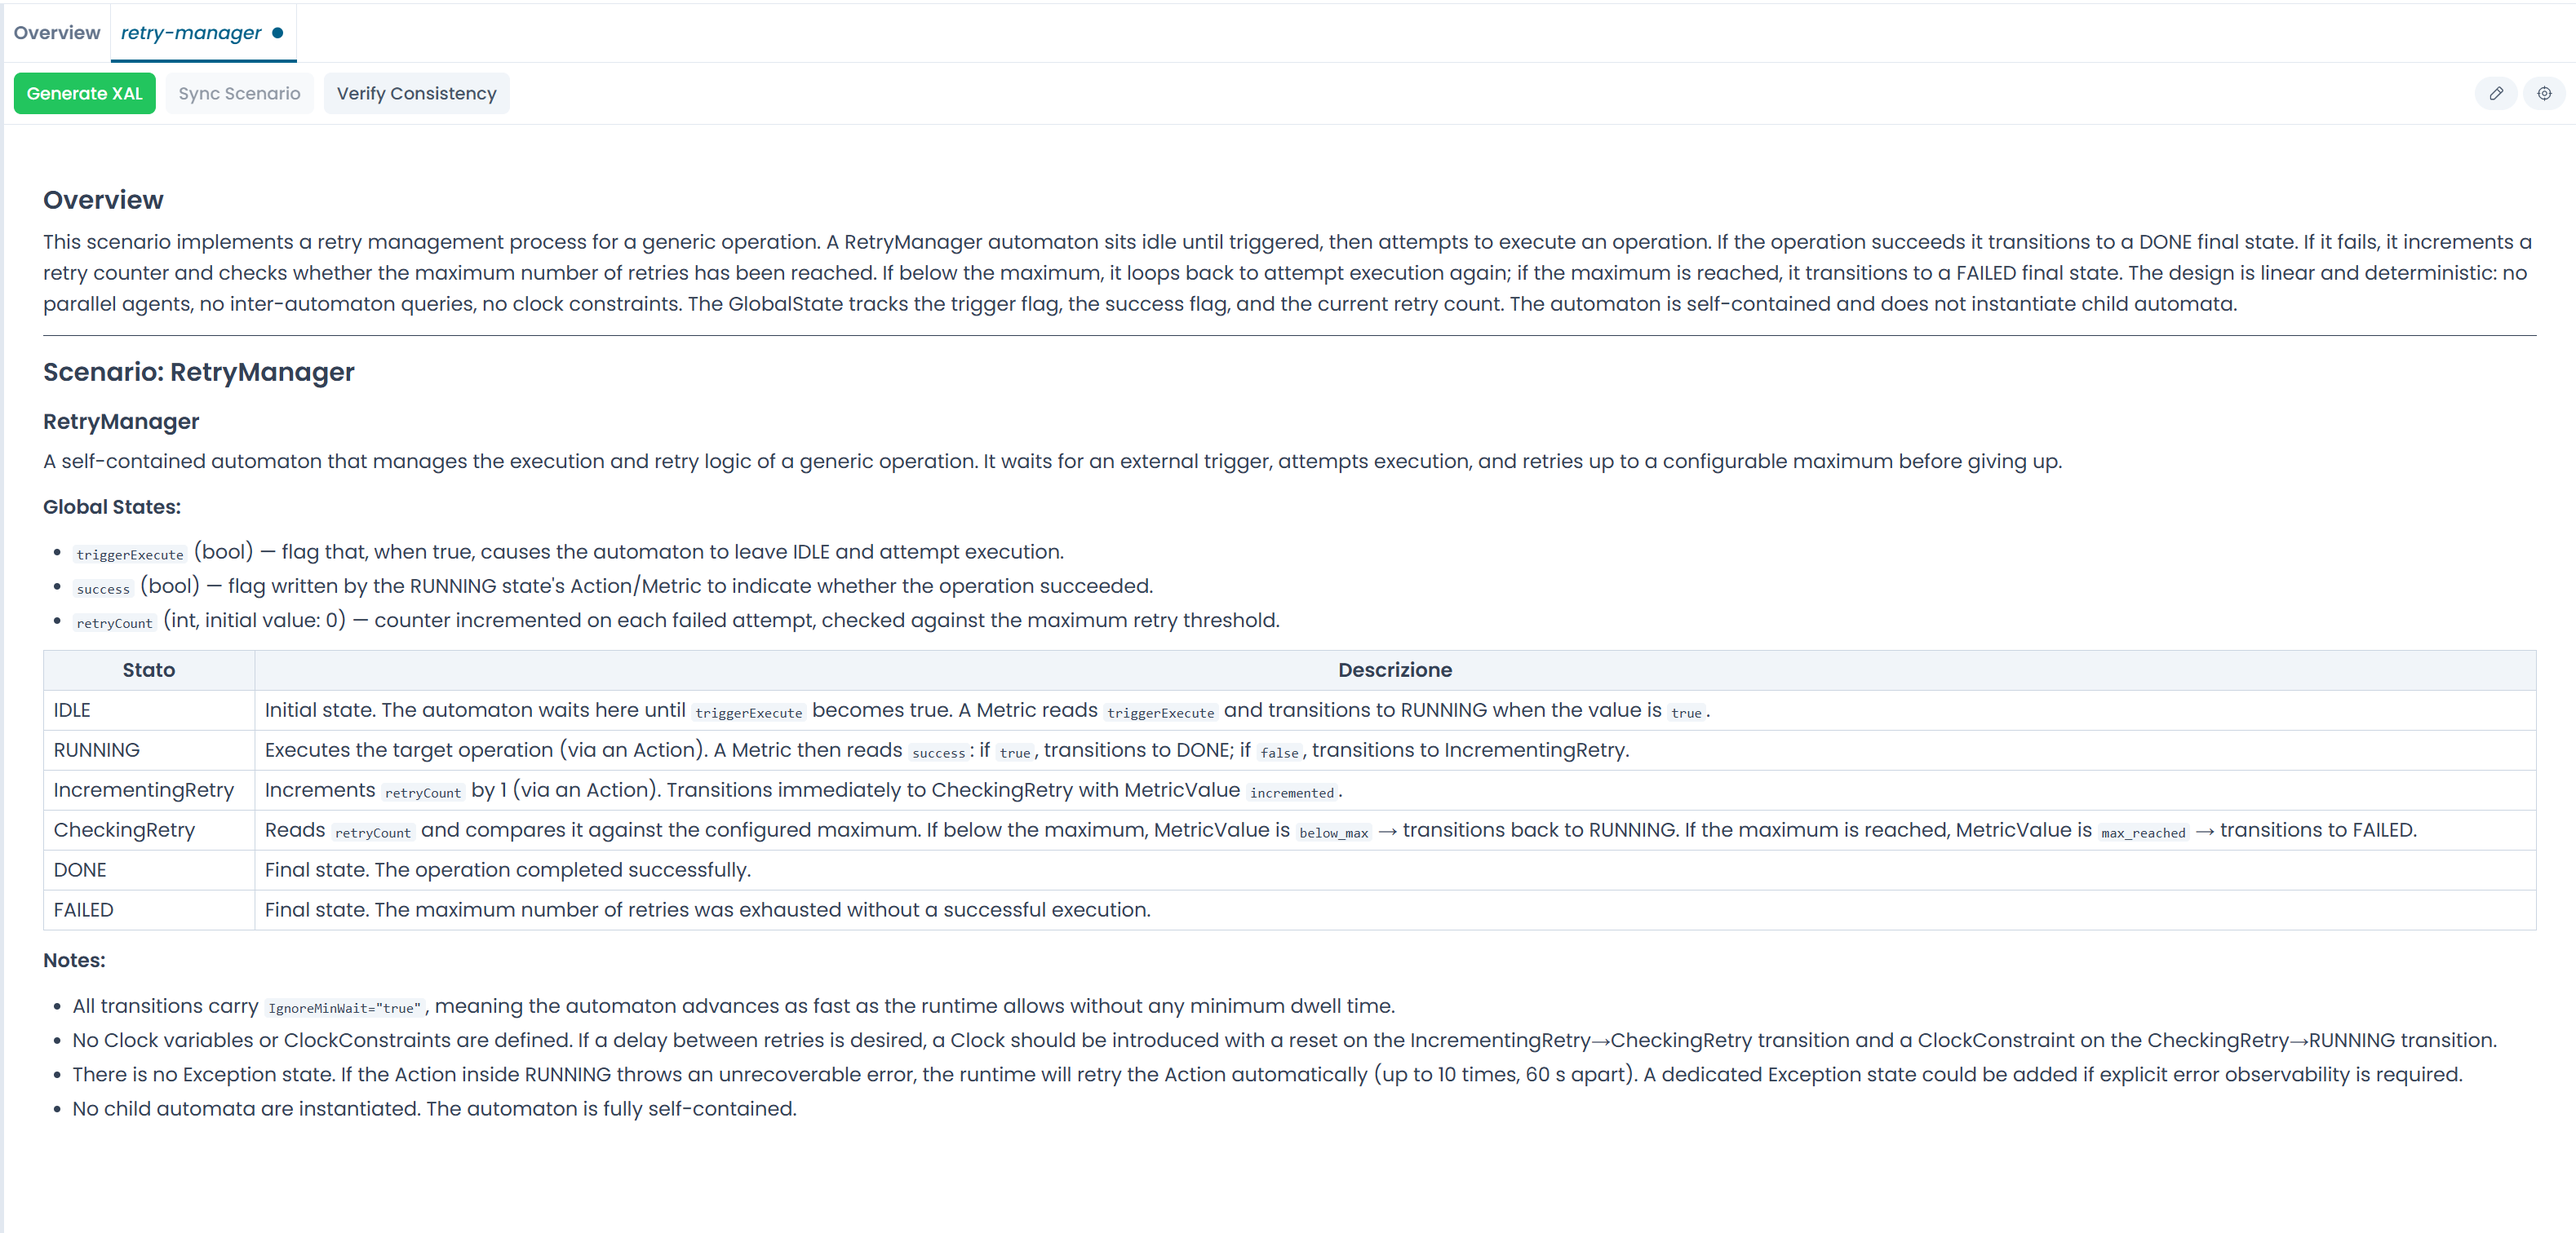
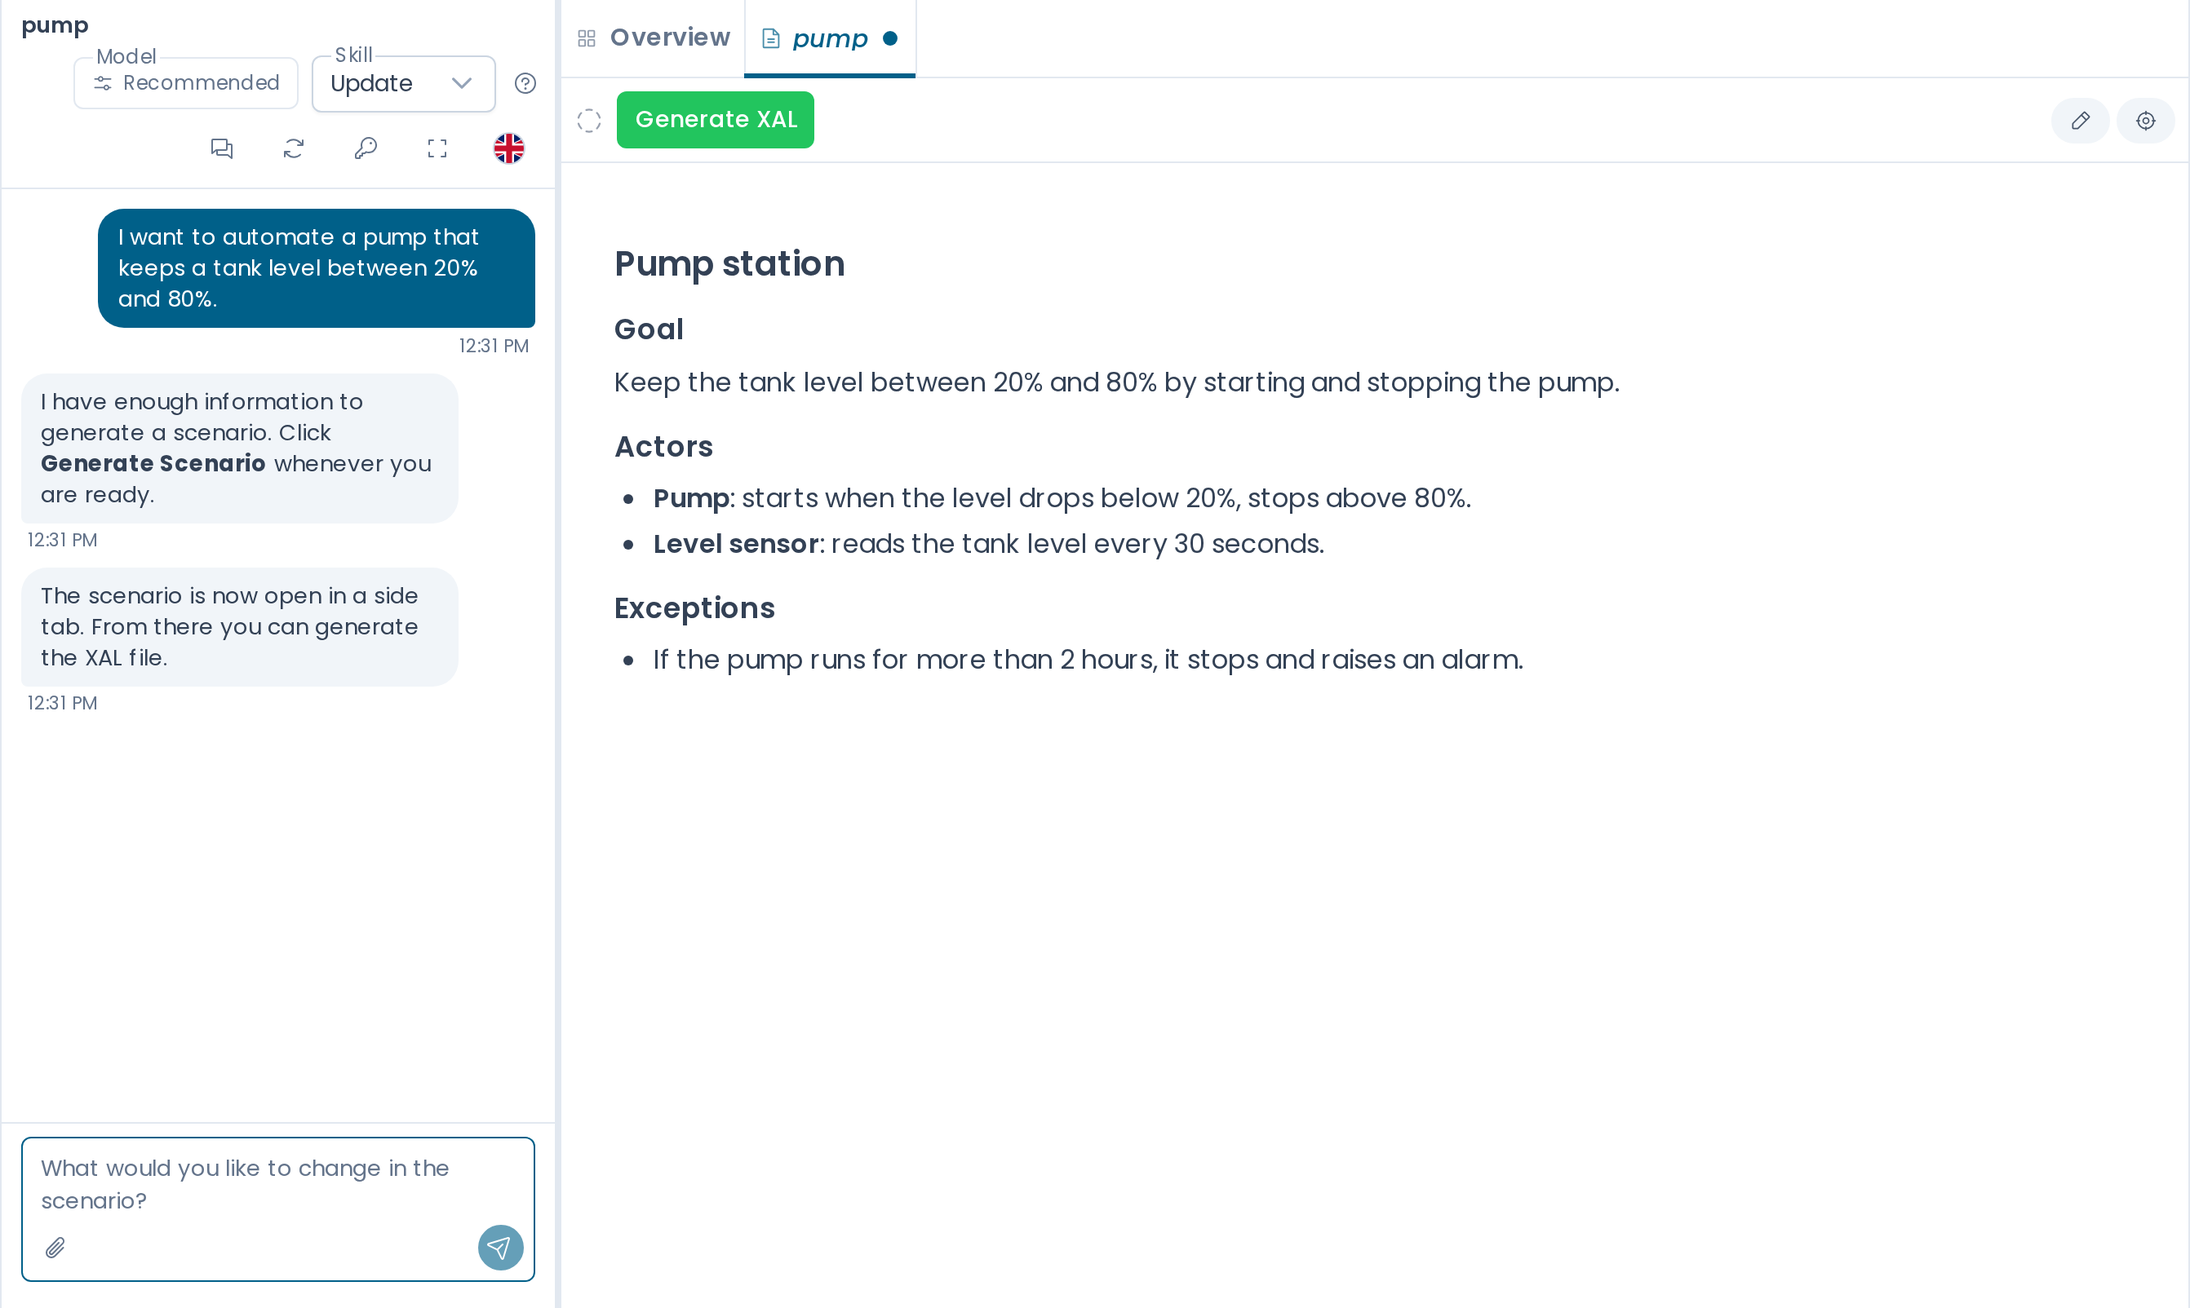
docs: aggiorna la pagina Generare uno scenario di Arianna
Allegati di testo e Office con anteprima e limiti, pulsante Generate
Scenario sotto il campo di testo, cartella data/ proposta per le
sessioni libere, aggiornamento con Update Scenario. Pagine EN e IT,
screenshot nuovi.

Fixes #4

diff --git a/docs/designer/arianna/generating_scenario.md b/docs/designer/arianna/generating_scenario.md
@@ -8,9 +8,9 @@ The scenario is the structured natural-language description of an automaton — 
 
 You can start a scenario generation from two entry points:
 
-**From a free session** — open the sessions panel in the chat header and create a new session. This session starts with no linked file. Describe the process, generate the scenario, and Arianna will assign a suggested filename when it delivers the result. The `.xal` file is created later, when you click **Generate XAL**.
+**From a free session**: click **New** in the sessions panel, or the **New chat** icon (**+**) in the chat header if you have no sessions yet (see [Chat Sessions](sessions.md#creating-a-session)). The session starts with no linked file. When Arianna delivers the scenario, she proposes a file name and the session takes that name.
 
-**From an existing file** — right-click a `.xal` file in the **Repository Explorer** and select **New chat** (or **Open chat** if a session already exists). The session is pre-linked to that file and pre-titled with the file name. The file does not need to have content.
+**From an existing file**: right-click a `.xal` or `.scenario.md` file in the **Repository Explorer** and select **New chat** (or **Open chat** if you have already written in that session). The session is linked to that file and takes its name. The file can be empty. If the XAL already has automata but no scenario, see [Generate Scenario from XAL](scenario_from_xal.md).
 
 ---
 
@@ -25,27 +25,78 @@ Type a description of the automaton's behaviour in the chat input. There are no 
 
 You can describe everything at once or build up the scenario through several exchanges. Arianna asks follow-up questions when the description is ambiguous or incomplete.
 
+If the process is already described in a document, attach it to your message instead of retyping it.
+
+---
+
+## Attaching documents
+
+To attach a document, click the **paperclip** icon in the input box and choose one or more files. You can also drag the files from your computer and drop them on the chat.
+
+You can attach these types of file:
+
+- **Text**: `.txt` and `.md`.
+- **Office**: `.docx`, `.pptx` and `.xlsx`. Arianna gets their text, converted to Markdown: headings, lists and tables are kept, and images and charts become a placeholder. A message tells you which files were converted.
+
+The old Office formats (`.doc`, `.ppt`, `.xls`) are not accepted: save the file as `.docx`, `.pptx` or `.xlsx` and attach it again.
+
+Each attached document appears in the input box with its name and size. Click **×** to remove it. If you attach a file with the same name again, it replaces the first one. You can send attachments with or without a message.
+
+![Two documents attached to a message](../../images/designer/arianna/attachment_chips.png)
+/// caption
+Fig.1 - Two documents attached, ready to send
+///
+
+Click the name of a document to see the text Arianna gets from it. A `.txt` file is shown as it is; the other documents are shown formatted. For an Office file, this lets you check what the conversion kept.
+
+![Preview of an attached document](../../images/designer/arianna/attachment_preview.png)
+/// caption
+Fig.2 - The text Arianna gets from a Word document
+///
+
+After you send the message, the documents stay in it: click a name to see its text again.
+
+### Limits
+- The text of a document can be up to 200 KB. For a `.txt` or `.md` file, this is also the limit on the file.
+- An Office file can be up to 10 MB before conversion. Its converted text must still fit in 200 KB.
+
+!!! tip "Attach only what you need"
+    Arianna reads the whole conversation again at every message, attachments included. A long document makes every following answer slower. If only a part of a document matters, attach that part.
+
 ---
 
 ## Generating the scenario
 
-When Arianna considers the description sufficient to produce a minimal scenario, the **Generate Scenario** button becomes active in the chat toolbar.
+When Arianna considers the description sufficient to produce a minimal scenario, she tells you in the chat, and the **Generate Scenario** button appears under the input box.
+
+![The Generate Scenario button under the input box](../../images/designer/arianna/generate_scenario_button.png)
+/// caption
+Fig.3 - Arianna has enough information: Generate Scenario appears
+///
+
+The button is not shown in the **Consult** skill. You can keep writing after it appears: the button stays until you click it.
 
 Click **Generate Scenario**. Arianna produces a structured scenario in Markdown format. At the same time:
 
-- the `.scenario.md` satellite file is created in the repository explorer alongside the `.xal` file
-- the **scenario tab** opens in the editor, showing the rendered scenario
+- the `.scenario.md` file is created in the **Repository Explorer**: next to the `.xal` file for a file session, in the `data/` folder for a free session. If a file with the same name already exists, a number is added, for example `pump(1).scenario.md`;
+- the **scenario tab** opens in the editor, showing the rendered scenario;
+- the skill changes to **Update**.
+
+The `.xal` file does not exist yet: it is created when you click **Generate XAL** in the scenario tab, in the same folder as the scenario.
 
 ![The scenario tab in the editor after generation](../../images/designer/arianna/generating_scenario_result.png)
 /// caption
-Fig.1 - The scenario tab after generation
+Fig.4 - The scenario tab after generation
 ///
+
+!!! tip "Another folder"
+    The `data/` folder is only a proposal. To keep the files somewhere else, drag them to another folder in the **Repository Explorer**, or change the folder when you commit.
 
 ---
 
 ## Refining the scenario
 
-Read the scenario in the tab. If something is incorrect or missing, describe the change in the chat and ask Arianna to update it. Each regeneration replaces the `.scenario.md` file and refreshes the tab.
+Read the scenario in the tab. If something is incorrect or missing, describe the change in the chat. When Arianna has understood the change, the **Update Scenario** button appears under the input box. Click it: Arianna updates the scenario and changes as little as possible of the parts not affected. The scenario tab then shows what changed compared with the previous version.
 
 !!! info "The scenario is the source of truth"
     During the generation phase, the scenario is what Arianna works from. The XAL has not been generated yet — refine the scenario until it accurately describes the intended behaviour before proceeding.
